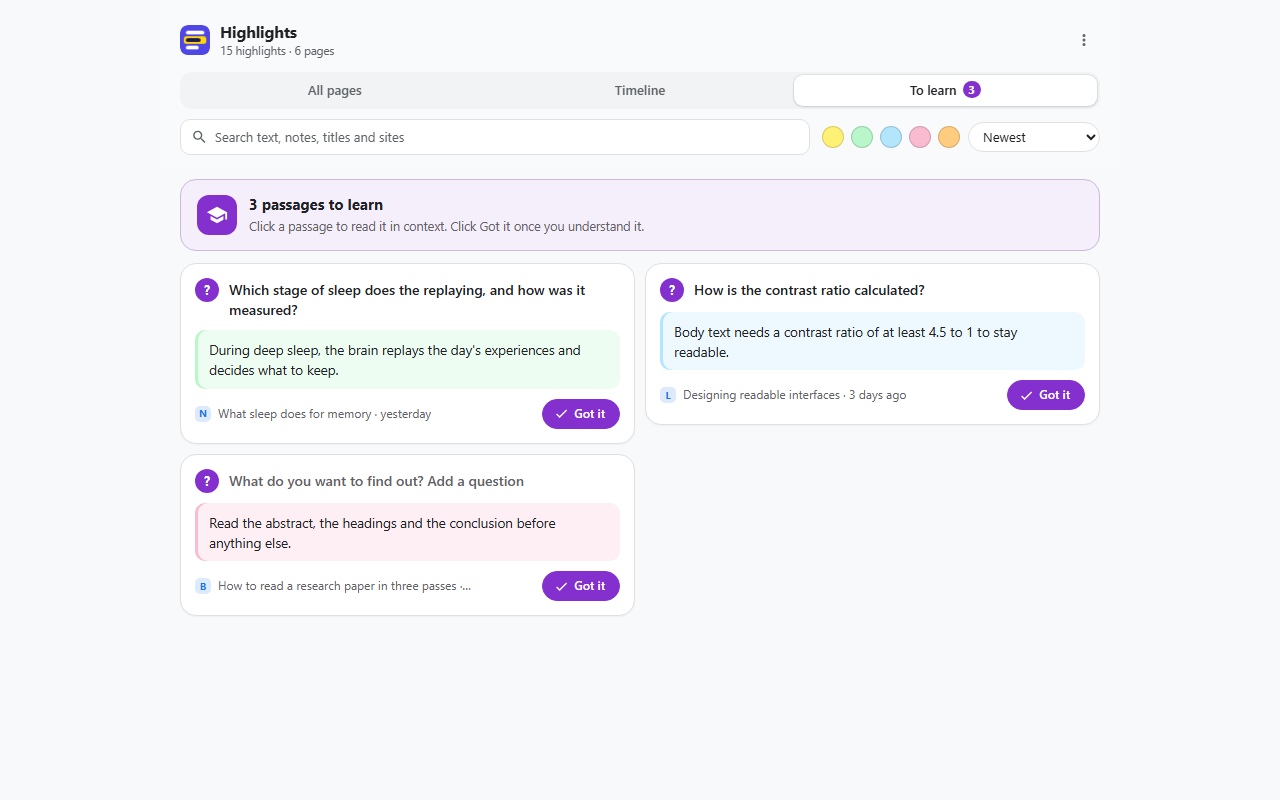
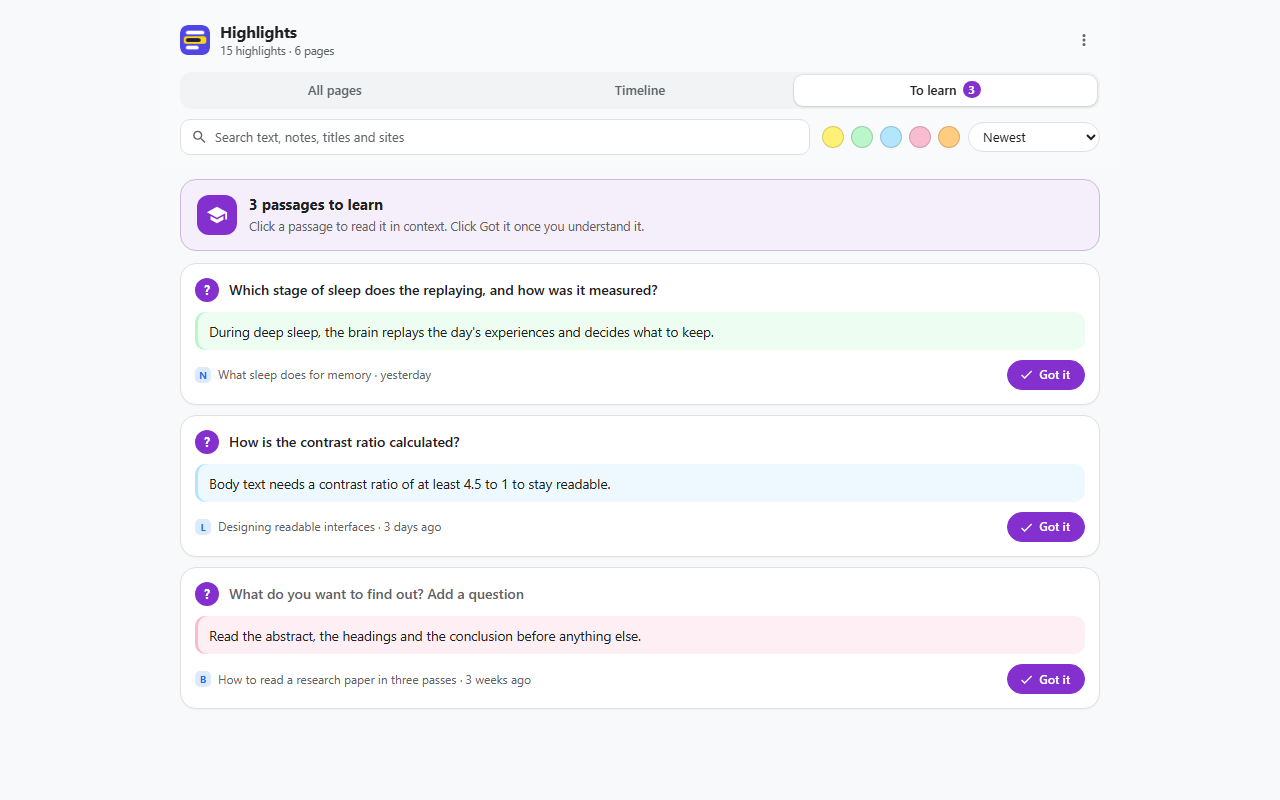
Modern timeline; full-width To learn cards (1.6.1)
- Timeline: highlights grouped under day headings (Today, Yesterday,
  weekday, then date) with a count, on a rail with a dot in each
  highlight's color. Each entry is a card with the page icon, title,
  site and time of day.
- To learn: one full-width card per row; a single card no longer
  fills only half the width.

diff --git a/library/library.js b/library/library.js
@@ -289,12 +289,33 @@
     return pages.reduce((n, p) => n + p.highlights.filter((h) => h.learn).length, 0);
   }
 
+  // The timeline: highlights grouped by day ("Today", "Yesterday", ...) on a rail,
+  // each with a dot in its color.
   function timelineList(timeline) {
-    const list = el('ul', 'items');
-    list.append(...timeline.slice(0, state.timelineLimit).map(({ highlight, page }) => item(highlight, page, true)));
-    const box = el('div', 'timeline');
-    box.append(list);
-    const out = [box];
+    const out = [];
+    let list = null;
+    let day = null;
+    for (const { highlight, page } of timeline.slice(0, state.timelineLimit)) {
+      const label = dayLabel(highlight.createdAt);
+      if (label !== day) {
+        day = label;
+        const section = el('section', 'day');
+        const heading = el('h2', 'day-label');
+        const name = el('span');
+        name.textContent = label;
+        const count = el('span', 'day-count');
+        heading.append(name, count);
+        list = el('ol', 'rail');
+        section.append(heading, list);
+        out.push(section);
+      }
+      const entry = item(highlight, page, true);
+      entry.classList.add('rail-item');
+      entry.style.setProperty('--dot', highlight.bookmark ? 'var(--accent)' : HL.colorValue(highlight.color));
+      list.append(entry);
+      const count = list.parentNode.querySelector('.day-count');
+      count.textContent = String(list.children.length);
+    }
     const left = timeline.length - state.timelineLimit;
     if (left > 0) {
       const more = el('button', 'more');
@@ -402,11 +423,14 @@
       tag.textContent = 'Learn more';
       meta.append(tag);
     }
+    // On the timeline (showPage) the day is the heading, so the time of day is
+    // enough, and the page gets its icon.
+    if (showPage) meta.append(favicon(page));
     meta.append(
       [
         showPage ? page.title : '',
         showPage ? page.site : '',
-        orphan ? 'Not found on the page right now' : ago(h.createdAt)
+        orphan ? 'Not found on the page right now' : showPage ? timeOfDay(h.createdAt) : ago(h.createdAt)
       ]
         .filter(Boolean)
         .join(' · ')
@@ -597,6 +621,26 @@
 
   function ago(time) {
     return HL.ago(time);
+  }
+
+  // "Today", "Yesterday", a weekday within the last week, then a date.
+  const WEEKDAY = new Intl.DateTimeFormat(undefined, { weekday: 'long' });
+  const DATE = new Intl.DateTimeFormat(undefined, { month: 'long', day: 'numeric' });
+  const DATE_YEAR = new Intl.DateTimeFormat(undefined, { year: 'numeric', month: 'long', day: 'numeric' });
+  const TIME = new Intl.DateTimeFormat(undefined, { hour: 'numeric', minute: '2-digit' });
+  function dayLabel(time) {
+    if (!time) return 'Earlier';
+    const date = new Date(time);
+    const startOf = (d) => new Date(d.getFullYear(), d.getMonth(), d.getDate()).getTime();
+    const days = Math.round((startOf(new Date()) - startOf(date)) / 86400000);
+    if (days <= 0) return 'Today';
+    if (days === 1) return 'Yesterday';
+    if (days < 7) return WEEKDAY.format(date);
+    return date.getFullYear() === new Date().getFullYear() ? DATE.format(date) : DATE_YEAR.format(date);
+  }
+
+  function timeOfDay(time) {
+    return time ? TIME.format(time) : '';
   }
 
   function plural(n) {

diff --git a/library/library.css b/library/library.css
@@ -10,6 +10,7 @@
 }
 
 body {
+  --page: var(--bg); /* the page background, for rings that cut into it */
   margin: 0;
   min-width: 280px;
   background: var(--bg);
@@ -782,6 +783,106 @@ main {
   background: var(--hover);
 }
 
+/* ---- Timeline ---- */
+
+.day + .day {
+  margin-top: 18px;
+}
+
+/* "Today 3 ───────" */
+.day-label {
+  display: flex;
+  align-items: center;
+  gap: 8px;
+  margin: 0 0 10px;
+  font-size: 13px;
+  font-weight: 650;
+}
+
+.day-label::after {
+  content: '';
+  flex: 1;
+  height: 1px;
+  background: var(--line);
+}
+
+.day-count {
+  min-width: 20px;
+  padding: 0 6px;
+  border-radius: 999px;
+  background: var(--hover);
+  color: var(--muted);
+  font-size: 11px;
+  font-weight: 600;
+  line-height: 18px;
+  text-align: center;
+}
+
+/* The rail: a line down the left with a dot per highlight in its color. */
+.rail {
+  position: relative;
+  margin: 0;
+  padding: 0 0 0 24px;
+  list-style: none;
+}
+
+.rail::before {
+  content: '';
+  position: absolute;
+  left: 8px;
+  top: 14px;
+  bottom: 14px;
+  width: 2px;
+  border-radius: 1px;
+  background: var(--line);
+}
+
+.rail-item {
+  border: 1px solid var(--line);
+  background: var(--bg);
+  box-shadow: 0 1px 2px rgba(0, 0, 0, 0.04);
+  transition: box-shadow 0.15s, border-color 0.15s;
+}
+
+.rail-item + .rail-item {
+  margin-top: 8px;
+}
+
+.rail-item:hover,
+.rail-item:focus-within {
+  border-color: color-mix(in srgb, var(--fg) 14%, var(--line));
+  background: var(--bg);
+  box-shadow: 0 6px 18px rgba(0, 0, 0, 0.07);
+}
+
+.rail-item::before {
+  content: '';
+  position: absolute;
+  left: -21px;
+  top: 15px;
+  width: 10px;
+  height: 10px;
+  border-radius: 50%;
+  background: var(--dot);
+  box-shadow: 0 0 0 3px var(--page), 0 0 0 4px color-mix(in srgb, var(--fg) 14%, transparent);
+}
+
+/* The dot shows the color, so the bar isn't needed here. */
+.rail-item > .bar {
+  display: none;
+}
+
+/* The page icon at the start of the meta line. */
+.item .meta .favicon {
+  display: inline-grid;
+  width: 14px;
+  height: 14px;
+  margin-right: 6px;
+  border-radius: 4px;
+  font-size: 8px;
+  vertical-align: -2px;
+}
+
 /* ---- To learn ---- */
 
 /* The count on the To learn tab. */
@@ -1010,12 +1111,6 @@ main {
   color: var(--learn);
 }
 
-/* Two columns of cards in a tab. */
-body.in-tab .learn-list {
-  grid-template-columns: repeat(auto-fill, minmax(340px, 1fr));
-  align-items: start;
-}
-
 /* ---- Toast ---- */
 
 .toast {
@@ -1061,6 +1156,7 @@ body.in-tab .learn-list {
 /* ---- Full tab ---- */
 
 body.in-tab {
+  --page: var(--surface);
   background: var(--surface);
 }
 
@@ -1097,6 +1193,7 @@ body.in-tab .filter-row {
 /* Dark: cards lighter than the page, as surfaces rise toward the viewer. */
 @media (prefers-color-scheme: dark) {
   body.in-tab {
+    --page: var(--bg);
     background: var(--bg);
   }
 
@@ -1106,7 +1203,8 @@ body.in-tab .filter-row {
 
   body.in-tab .card,
   body.in-tab .timeline,
-  body.in-tab .learn-card {
+  body.in-tab .learn-card,
+  body.in-tab .rail-item {
     background: var(--surface);
   }
 }
